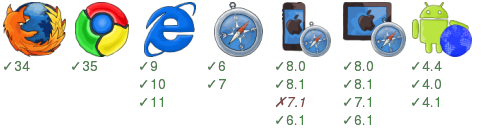
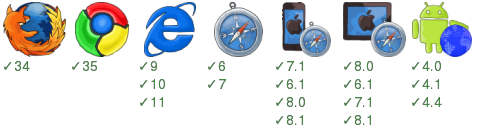
Auto commit browser tests and badge for 9e858cb7bd335795f105e818639c009ebacfbf7a [ci skip]

diff --git a/examples/00hello/badge.html b/examples/00hello/badge.html
@@ -28,20 +28,20 @@ div{vertical-align:top;overflow:hidden;display:inline-block;width:92px;padding:4
 <p>&#x2713;7</p>
 </div><div>
 <img src="/home/travis/build/zordius/fluxex/examples/00hello/node_modules/badge-render/browser-badge/static/iphone.png" />
+<p>&#x2713;7.1</p>
+<p>&#x2713;6.1</p>
 <p>&#x2713;8.0</p>
 <p>&#x2713;8.1</p>
-<i>&#x2717;7.1</i>
-<p>&#x2713;6.1</p>
 </div><div>
 <img src="/home/travis/build/zordius/fluxex/examples/00hello/node_modules/badge-render/browser-badge/static/ipad.png" />
 <p>&#x2713;8.0</p>
-<p>&#x2713;8.1</p>
-<p>&#x2713;7.1</p>
 <p>&#x2713;6.1</p>
+<p>&#x2713;7.1</p>
+<p>&#x2713;8.1</p>
 </div><div>
 <img src="/home/travis/build/zordius/fluxex/examples/00hello/node_modules/badge-render/browser-badge/static/android-browser.png" />
-<p>&#x2713;4.4</p>
 <p>&#x2713;4.0</p>
 <p>&#x2713;4.1</p>
+<p>&#x2713;4.4</p>
 </div></body>
 </html>
